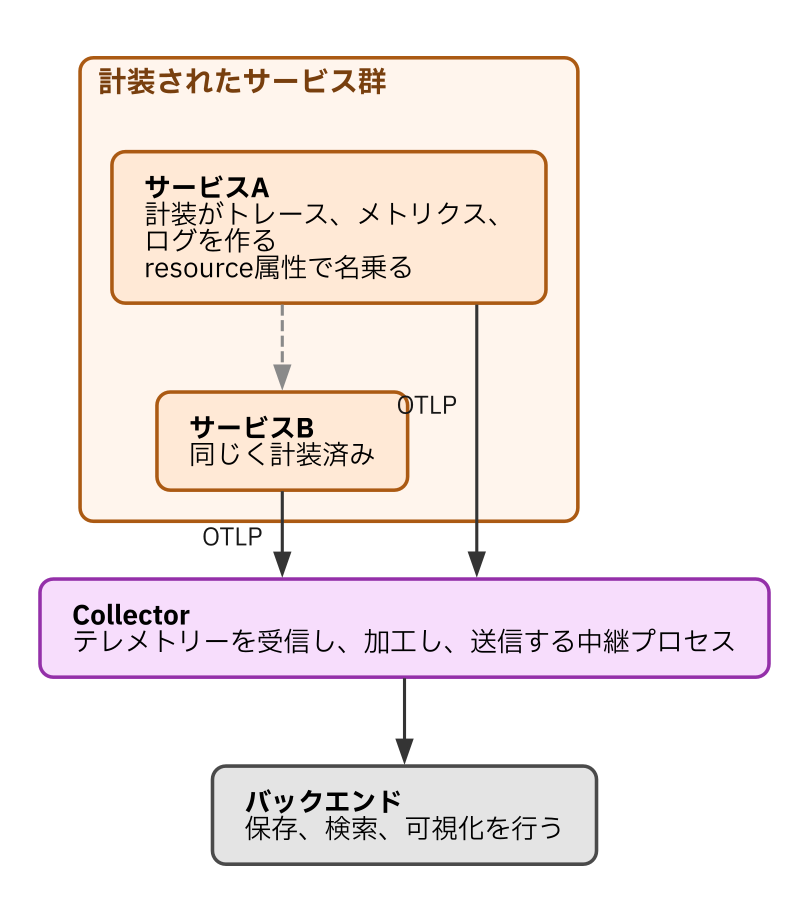
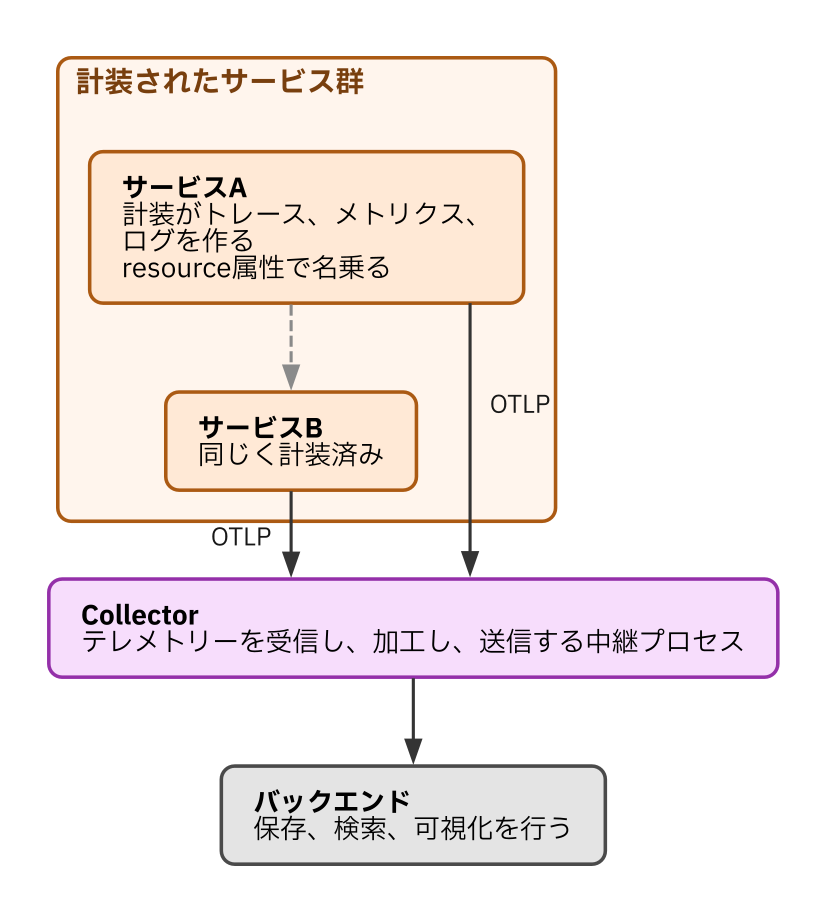
fix(otel-platform): 図1のラベル位置を直し、図3に区切り線を入れる
図1（minimal-otel）は OTLP のラベルがサービスBの箱と
「計装されたサービス群」の枠に当たっていた。原因は後処理の
nudge_xlabel_from_edge.py がラベルを矢印から離す際にクラスタの枠を
考慮していなかったこと（スキル側で修正済み）。矢印と枠の間に収まった。

図3（central-vs-selfservice）は2つのモデルの間隔を空け、区切り線を
入れた。線は @divider マーカーと draw_divider.py による後処理で引く。

diff --git a/diagrams/scripts/nudge_xlabel_from_edge.py b/diagrams/scripts/nudge_xlabel_from_edge.py
@@ -21,16 +21,31 @@ import re
 import sys
 
 EDGE_GROUP = re.compile(r'(<g[^>]*class="edge"[^>]*>.*?</g>)', re.S)
+CLUSTER_GROUP = re.compile(r'<g[^>]*class="cluster"[^>]*>(.*?)</g>', re.S)
 PATH = re.compile(r'<path\b([^>]*?)/>')
 TEXT = re.compile(r'(<text\b([^>]*?)>)(.*?)(</text>)', re.S)
 ATTR = re.compile(r'([\w-]+)="([^"]*)"')
 NUM = re.compile(r'-?\d+(?:\.\d+)?')
+POINT = re.compile(r'(-?\d+(?:\.\d+)?),(-?\d+(?:\.\d+)?)')
 
 FULLWIDTH_EM = 1.0
 HALFWIDTH_EM = 0.6
 # 縦方向の文字の広がり: ベースラインから上に ascent、下に descent
 ASCENT_EM = 0.8
 DESCENT_EM = 0.2
+
+
+def cluster_frames(svg):
+    """クラスタの枠の矩形を返す。押し出しでラベルを枠の外へ出さないため。"""
+    frames = []
+    for m in CLUSTER_GROUP.finditer(svg):
+        pts = [(float(a), float(b)) for a, b in POINT.findall(m.group(1))]
+        if not pts:
+            continue
+        xs = [p[0] for p in pts]
+        ys = [p[1] for p in pts]
+        frames.append((min(xs), min(ys), max(xs), max(ys)))
+    return frames
 
 
 def text_width(s, font_size):
@@ -53,7 +68,26 @@ def path_axis(d):
     return None, None
 
 
-def process_group(group, margin):
+def _inside_frames(tx, ty, half_w, frames, font_size):
+    """ラベルの文字範囲が、どのクラスタの枠線とも重ならないか。
+
+    枠の外（どの枠にも属さない位置）は許容する——クラスタを持たない図や、
+    枠の外側に置かれたラベルを動かせなくする理由はない。禁じたいのは
+    「枠線の上に文字が乗る」ことだけなので、縦の枠線との交差だけを見る。
+    """
+    x0, x1 = tx - half_w, tx + half_w
+    top = ty - ASCENT_EM * font_size
+    bottom = ty + DESCENT_EM * font_size
+    for fx0, fy0, fx1, fy1 in frames:
+        if bottom < fy0 or top > fy1:
+            continue                       # 枠の高さの外
+        for fx in (fx0, fx1):
+            if x0 <= fx <= x1:
+                return False
+    return True
+
+
+def process_group(group, margin, frames=()):
     path_m = PATH.search(group)
     text_m = TEXT.search(group)
     if not path_m or not text_m:
@@ -72,12 +106,25 @@ def process_group(group, margin):
 
     if axis == 'v':
         tx = float(text_attrs['x'])
+        ty = float(text_attrs['y'])
         # 経路(coord)とラベルの近い側の端の距離が margin 未満なら押し出す
         dist = coord - (tx + half_w) if tx <= coord else (tx - half_w) - coord
         if dist < margin:
             shift = margin - dist
-            new_tx = tx - shift if tx <= coord else tx + shift
-            text_attrs['x'] = f'{new_tx:.2f}'
+            outward = -1.0 if tx <= coord else 1.0
+            new_tx = tx + outward * shift
+            # クラスタの枠を越えるなら押し出さない。矢印から離すだけを見て
+            # 動かすと、枠の内側にあったラベルを枠線の上へ押し出してしまう
+            # （「計装されたサービス群」の枠に OTLP の T が乗った実例）。
+            # 越える場合は、経路の反対側へ同じ距離だけ逃がせるかを試し、
+            # それも枠を越えるなら元の位置に留める（線に触れる方が、
+            # 枠線と文字が重なるより読みやすい）。
+            if _inside_frames(new_tx, ty, half_w, frames, font_size):
+                text_attrs['x'] = f'{new_tx:.2f}'
+            else:
+                mirrored = coord + (coord - new_tx)
+                if _inside_frames(mirrored, ty, half_w, frames, font_size):
+                    text_attrs['x'] = f'{mirrored:.2f}'
     else:
         # 横線の場合、縦方向の広がりはテキストの幅ではなく高さで測る。
         # y はベースライン: 線より上のラベルは下端 (descent) が、
@@ -100,7 +147,9 @@ def process_group(group, margin):
 def main():
     margin = float(sys.argv[1]) if len(sys.argv) > 1 else 6.0
     svg = sys.stdin.read()
-    sys.stdout.write(EDGE_GROUP.sub(lambda m: process_group(m.group(1), margin), svg))
+    frames = cluster_frames(svg)
+    sys.stdout.write(
+        EDGE_GROUP.sub(lambda m: process_group(m.group(1), margin, frames), svg))
 
 
 if __name__ == '__main__':

diff --git a/diagrams/scripts/draw_divider.py b/diagrams/scripts/draw_divider.py
@@ -1,0 +1,91 @@
+#!/usr/bin/env python3
+# 対比図の2つのクラスタの間に、図の全幅に渡る区切り線を引く後処理。
+#
+# なぜ後処理なのか: Graphviz には「図の全幅に渡る線」を引く手段がない。
+# 不可視ノード2つを rank=same で並べて実線で結ぶ方法は、線が中央に短く
+# 浮くだけでなく、両端をクラスタの端へ揃えようと不可視辺を足した時点で
+# ランク制約がノードの並び順を崩す（A B C が B A C になる）。ランクを
+# 跨ぐ「装飾としての線」は dot のレイアウトモデルの外にある。
+#
+# 使い方: `.dot` の冒頭に次のコメントを置くと、上下に隣接する2つの
+# クラスタの隙間の中央へ線を引く。
+#
+#     // @divider: between-clusters
+#
+# 線は両クラスタのうち広い方の幅に揃え、灰の細線（モデル内の矢印と
+# 読み違えないため）で描く。クラスタが2つでない図、マーカーの無い図は
+# 何もせずに素通しする。
+#
+#   使い方: render.sh のパイプラインに挟む
+#     python3 draw_divider.py <dotfile> < in.svg > out.svg
+
+import re
+import sys
+
+STROKE = "#B4B4B4"
+WIDTH = 1.2
+
+
+def main():
+    if len(sys.argv) < 2:
+        sys.stdout.write(sys.stdin.read())
+        return
+    try:
+        src = open(sys.argv[1], encoding="utf-8").read()
+    except OSError:
+        sys.stdout.write(sys.stdin.read())
+        return
+
+    svg = sys.stdin.read()
+    if "@divider: between-clusters" not in src:
+        sys.stdout.write(svg)
+        return
+
+    # クラスタの枠は、round.py が角丸を統一する過程で <path> から <rect> へ
+    # 書き換えられている（パイプラインの後段で動くこのスクリプトが見るのは
+    # 常に <rect>）。<path> のままの場合にも備えて両方を読む。
+    frames = []
+    for m in re.finditer(r'<g id="[^"]*" class="cluster"[^>]*>(.*?)</g>', svg, re.S):
+        inner = m.group(1)
+        rect = re.search(r'<rect[^>]*\bx="([-\d.]+)"[^>]*\by="([-\d.]+)"'
+                         r'[^>]*\bwidth="([\d.]+)"[^>]*\bheight="([\d.]+)"', inner)
+        if rect:
+            x, y, w, h = (float(v) for v in rect.groups())
+            frames.append((x, y, x + w, y + h))
+            continue
+        pts = [tuple(map(float, p.split(",")))
+               for p in re.findall(r'([-\d.]+,[-\d.]+)', inner)]
+        if not pts:
+            continue
+        xs = [p[0] for p in pts]
+        ys = [p[1] for p in pts]
+        frames.append((min(xs), min(ys), max(xs), max(ys)))
+
+    if len(frames) != 2:
+        sys.stdout.write(svg)
+        return
+
+    # SVG の y は下向き。上下の並びで上になるのは y の小さい方。
+    frames.sort(key=lambda f: f[1])
+    top, bottom = frames
+    gap_top, gap_bottom = top[3], bottom[1]
+    if gap_bottom <= gap_top:
+        sys.stdout.write(svg)          # 左右に並んでいる図。何もしない
+        return
+
+    y = (gap_top + gap_bottom) / 2.0
+    x0 = min(top[0], bottom[0])
+    x1 = max(top[2], bottom[2])
+    line = (f'<line x1="{x0:.2f}" y1="{y:.2f}" x2="{x1:.2f}" y2="{y:.2f}" '
+            f'stroke="{STROKE}" stroke-width="{WIDTH}"/>\n')
+
+    # 最後の </g></svg> の直前に差し込む（座標系は graph の <g> の中）。
+    idx = svg.rfind("</g>")
+    if idx < 0:
+        sys.stdout.write(svg)
+        return
+    sys.stdout.write(svg[:idx] + line + svg[idx:])
+
+
+if __name__ == "__main__":
+    main()

diff --git a/diagrams/scripts/check_overlaps.py b/diagrams/scripts/check_overlaps.py
@@ -42,6 +42,9 @@ SAMPLES_PER_SEGMENT = 24
 # dot は横の枠線から 9pt 程度離してラベルを置くことがあり、それは視覚的に
 # 問題ないので、実際に文字が枠を跨ぐ範囲（中心が 6pt 以内）だけを検出する。
 LABEL_LINE_HALF_HEIGHT = 6.0
+# ラベルの文字矩形を左右に広げる余裕。dot の報告する width は実際の描画幅より
+# 小さく出るため、座標上わずかに空いていても目視では隣の図形に触れて見える。
+LABEL_EDGE_MARGIN = 3.0
 SELF_CROSS_THRESHOLD = 15.0
 
 
@@ -275,9 +278,29 @@ def check_file(path, margin):
                     print(f"  [{path}] {tail_name} -> {head_name} のラベルが "
                           f"{other_tail} -> {other_head} の経路に近すぎる（{d:.0f}pt, LABEL-TOO-CLOSE）")
                     warnings += 1
-            # 3b. 無関係なノードの矩形に近すぎる
+            # 3b. 無関係なノードの矩形に近すぎる／文字が食い込んでいる。
+            # 中心点だけで測ると、中心は箱の外でも文字の左右の端が箱に
+            # 食い込む位置（「 OTLP」の O だけが隣の箱に乗る形）を
+            # 見逃す。文字の外接矩形で判定する。
+            #
+            # 矩形は dot の報告する width から作るが、この値は実際の
+            # 描画幅より小さく出る（グリフの送り幅の合計であり、字体の
+            # サイドベアリングや先頭の空白の扱いで数pt食い違う）。
+            # 座標上は 0.8pt 空いていても目視では重なって見えた実例が
+            # あるので、接触の判定には LABEL_EDGE_MARGIN の余裕を持たせる。
+            lx0, lx1 = lx - lw / 2 - LABEL_EDGE_MARGIN, lx + lw / 2 + LABEL_EDGE_MARGIN
+            ly0, ly1 = ly - LABEL_LINE_HALF_HEIGHT, ly + LABEL_LINE_HALF_HEIGHT
             for gvid, node in nodes.items():
                 if gvid in (e["tail"], e["head"]) or is_waypoint(node):
+                    continue
+                nx0, ny0, nx1, ny1 = node_bbox(node)
+                ox = min(lx1, nx1) - max(lx0, nx0)
+                oy = min(ly1, ny1) - max(ly0, ny0)
+                if ox > 0 and oy > 0:
+                    print(f"  [{path}] {tail_name} -> {head_name} のラベルが "
+                          f"'{node.get('name')}' に{ox:.0f}x{oy:.0f}pt "
+                          f"食い込んでいる（LABEL-ON-NODE）")
+                    warnings += 1
                     continue
                 d = dist_point_to_bbox((lx, ly), node_bbox(node))
                 if d < margin:
